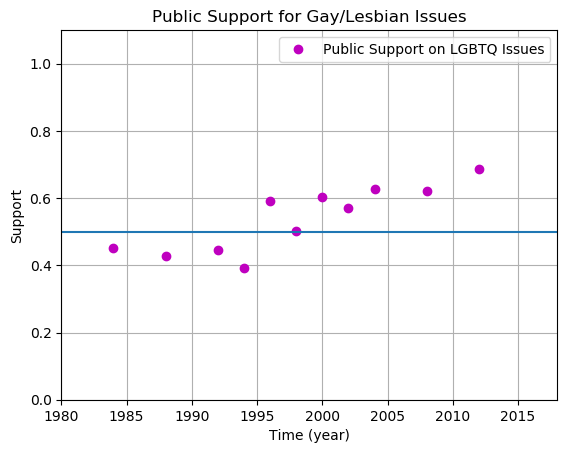
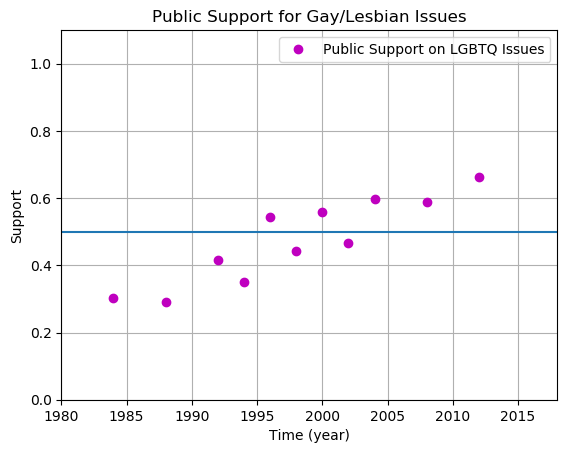
updated plots

diff --git a/plots.py b/plots.py
@@ -48,7 +48,7 @@ plt.gcf().clear()
 ################################################################################
 
 #average public support for gay issues
-plt.plot(gay_all_yr_avg.keys(),gay_all_yr_avg.values(),'mo',label='Public Support on LGBTQ Issues')
+plt.plot(all_po_avg.keys(),all_po_avg.values(),'mo',label='Public Support on LGBTQ Issues')
 
 plt.axhline(y=.5)
 
@@ -108,7 +108,7 @@ plt.ylabel('Support')
 plt.title('SC v. PO for Gay/Lesbian Issues')
 plt.grid(True)
 
-min_yr=min(list(sc_support.keys())+list(gay_all_yr_avg.keys()))
+min_yr=min(list(sc_support.keys())+list(all_po_avg.keys()))
 plt.axis([min_yr-4, CURRENT_YEAR, 0.0, 1.1])
 
 plt.savefig('./plots/avg_sc_v_po.png', bbox_inches='tight')

diff --git a/sc_po_anal.py b/sc_po_anal.py
@@ -204,7 +204,6 @@ all_po_avg={}
 for q_id in po_rel_ques:
     #compute average of column for question id q_id
     col_avg = col_yr_avg(q_id)
-    print(col_avg)
     #append each value in the dictonary to the appropirate key
     for key,value in col_avg.items():
         if key in all_po_avg.keys():
